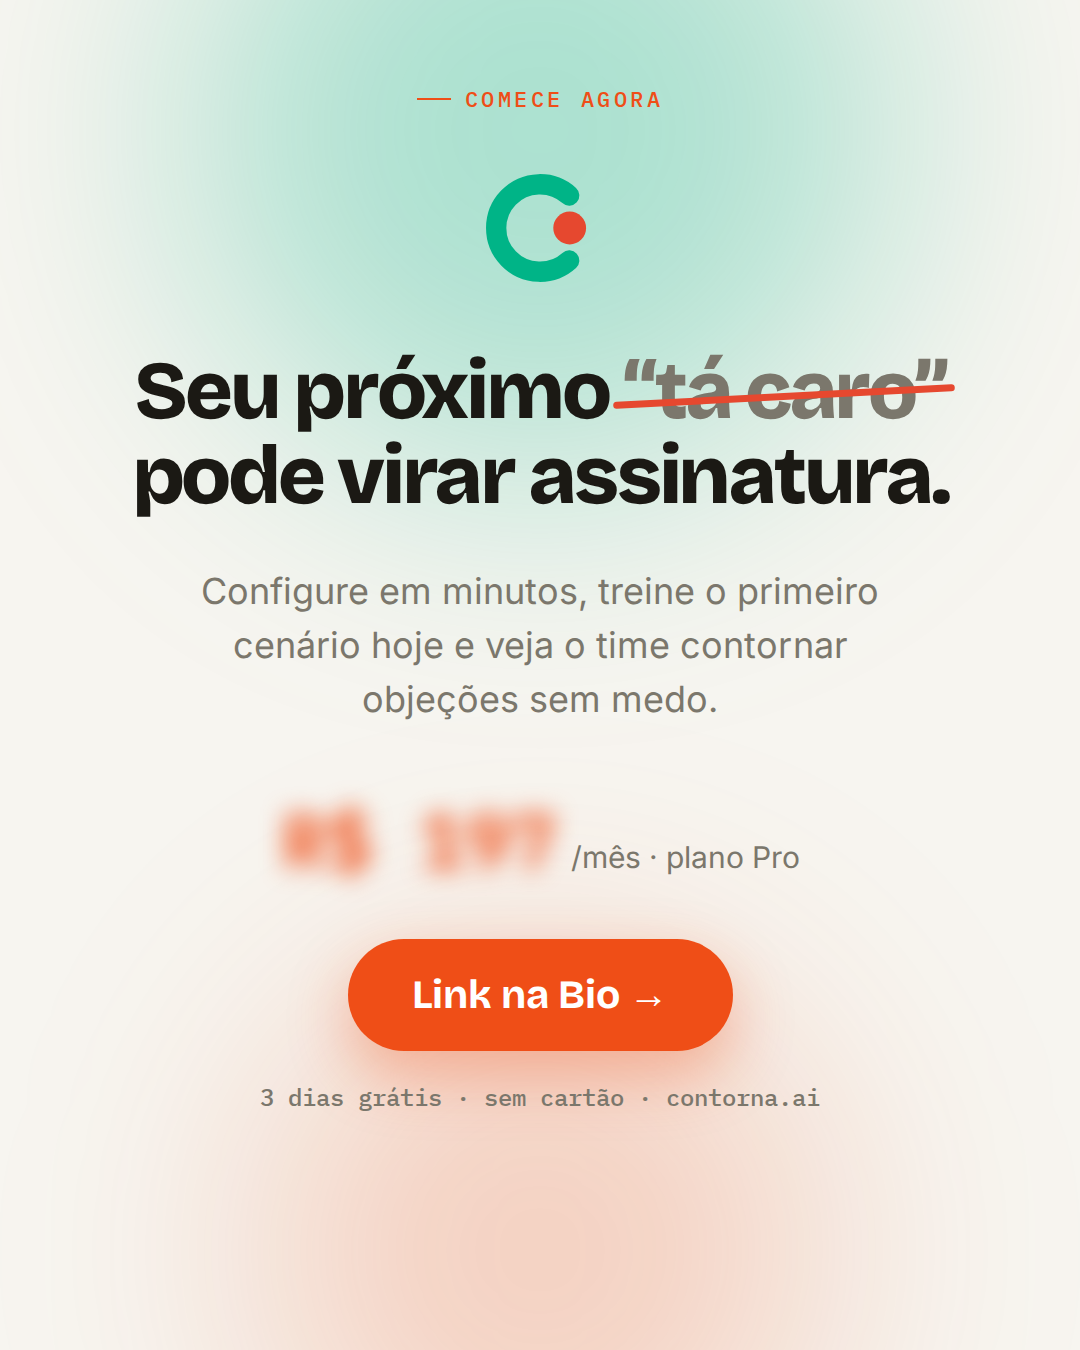
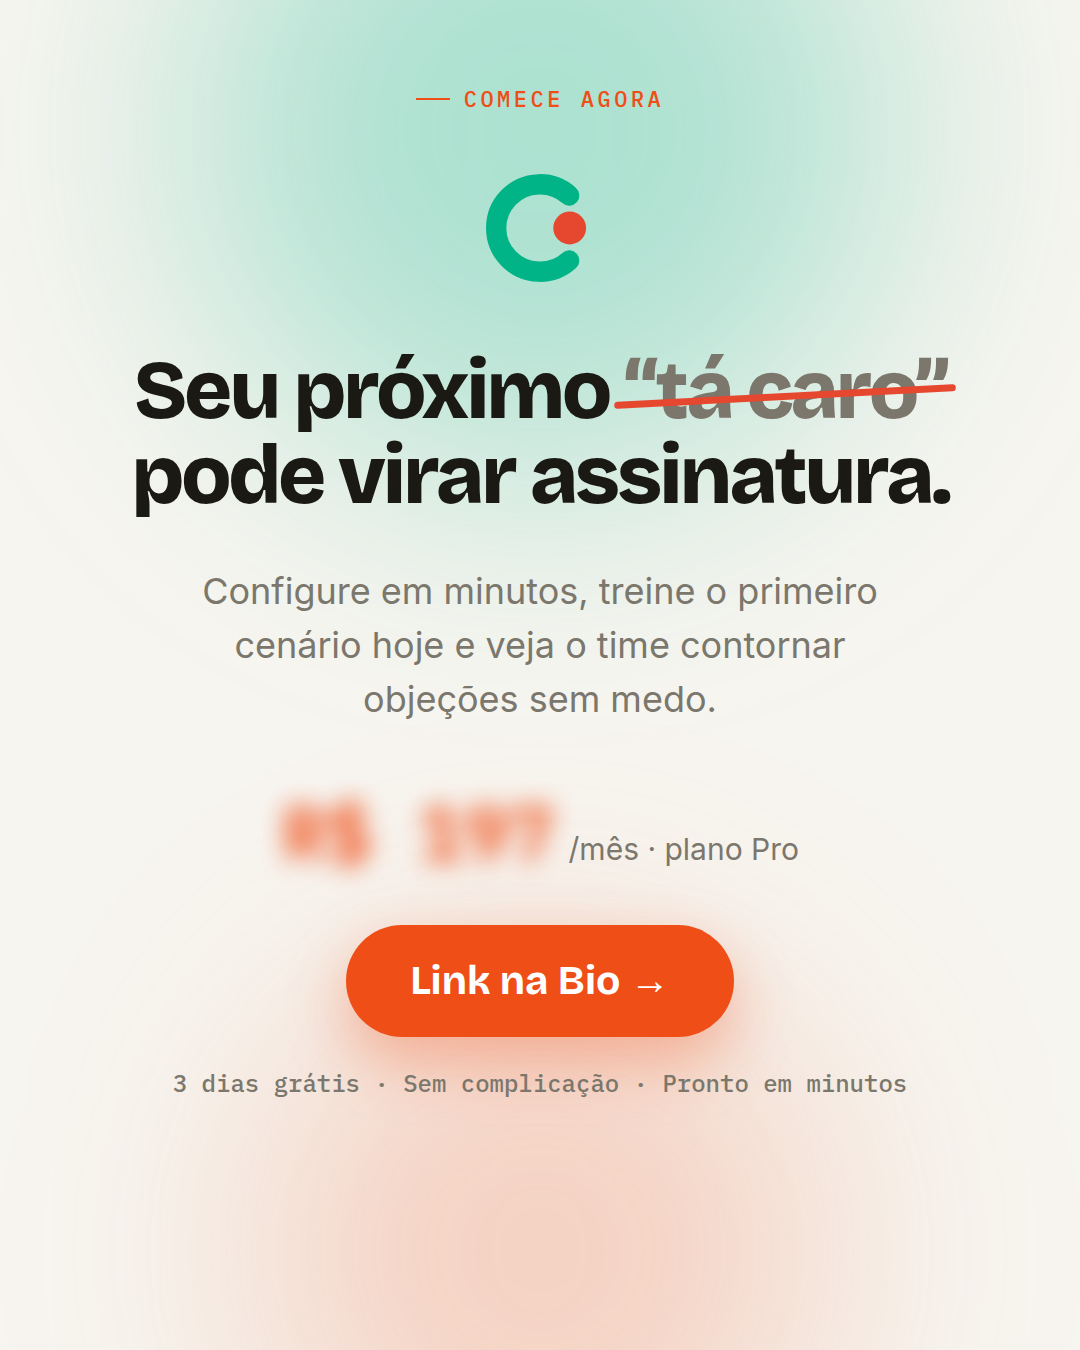
Substitui "sem cartão" em todas as peças do Instagram
- Chip do Post 2 / Story 2: "✓ Sem cartão" → "✓ Contorna.ai"
- Rodapé do Carrossel tela 6 (feed + story): "3 dias grátis · sem
  cartão" → "3 dias grátis · Contorna.ai"
- Rodapé do Post 5 / Story 5: como esse já terminava em "· contorna.ai"
  (troca direta duplicaria o texto), usei a frase fornecida pelo
  usuário: "3 dias grátis · Sem complicação · Pronto em minutos"
- plano.html não foi alterado (documento já estava desatualizado em
  relação às peças, fora do escopo desta rodada)
- Re-renderiza os 6 PNGs afetados

diff --git a/marketing/instagram/src/stories.html b/marketing/instagram/src/stories.html
@@ -266,7 +266,7 @@
     </div>
     <div class="chips">
       <span class="chip">✓ 3 dias grátis</span>
-      <span class="chip">✓ Sem cartão</span>
+      <span class="chip">✓ Contorna.ai</span>
       <span class="chip">✓ Pronto em minutos</span>
     </div>
     <div class="foot">
@@ -356,7 +356,7 @@
     <p class="sub">Configure em minutos, treine o primeiro cenário hoje e veja o time contornar objeções sem medo.</p>
     <div class="price"><span class="v">R$ 197</span><span class="p">/mês · plano Pro</span></div>
     <div class="btn">Link na Bio →</div>
-    <div class="fine">3 dias grátis · sem cartão · contorna.ai</div>
+    <div class="fine">3 dias grátis · Sem complicação · Pronto em minutos</div>
     <div class="foot">
       <div class="lock">
         <svg viewBox="0 0 96 96" fill="none"><path d="M66.7 27.2 A28 28 0 1 0 66.7 68.8" stroke="#00B487" stroke-width="13" stroke-linecap="round"/><circle cx="67" cy="48" r="10.5" fill="#E6482F"/></svg>
@@ -522,7 +522,7 @@
     <h1 class="display">Ler é fácil.<br>Responder na hora<br>é que trava.</h1>
     <p class="sub">No Contorna AI seu time treina essas quatro contra uma IA que insiste — e recebe a nota do que respondeu.</p>
     <div class="btn">Link na Bio →</div>
-    <div class="fine">3 dias grátis · sem cartão</div>
+    <div class="fine">3 dias grátis · Contorna.ai</div>
     <div class="foot">
       <div class="lock">
         <svg viewBox="0 0 96 96" fill="none"><path d="M66.7 27.2 A28 28 0 1 0 66.7 68.8" stroke="#00B487" stroke-width="13" stroke-linecap="round"/><circle cx="67" cy="48" r="10.5" fill="#E6482F"/></svg>

diff --git a/marketing/instagram/src/artes.html b/marketing/instagram/src/artes.html
@@ -296,7 +296,7 @@
     </div>
     <div class="chips">
       <span class="chip">✓ 3 dias grátis</span>
-      <span class="chip">✓ Sem cartão</span>
+      <span class="chip">✓ Contorna.ai</span>
       <span class="chip">✓ Pronto em minutos</span>
     </div>
     <div class="brand-footer">
@@ -386,7 +386,7 @@
     <p class="sub">Configure em minutos, treine o primeiro cenário hoje e veja o time contornar objeções sem medo.</p>
     <div class="price"><span class="v">R$ 197</span><span class="p">/mês · plano Pro</span></div>
     <div class="btn">Link na Bio →</div>
-    <div class="fine">3 dias grátis · sem cartão · contorna.ai</div>
+    <div class="fine">3 dias grátis · Sem complicação · Pronto em minutos</div>
   </div>
 </div>
 
@@ -582,7 +582,7 @@
     <h1 class="display">Ler é fácil.<br>Responder na hora<br>é que trava.</h1>
     <p class="sub">No Contorna AI seu time treina essas quatro contra uma IA que insiste — e recebe a nota do que respondeu.</p>
     <div class="btn">Link na Bio →</div>
-    <div class="fine">3 dias grátis · sem cartão</div>
+    <div class="fine">3 dias grátis · Contorna.ai</div>
     <div class="brand-footer">
       <div class="brand-lock">
         <svg width="52" height="52" viewBox="0 0 96 96" fill="none"><path d="M66.7 27.2 A28 28 0 1 0 66.7 68.8" stroke="#00B487" stroke-width="13" stroke-linecap="round"/><circle cx="67" cy="48" r="10.5" fill="#E6482F"/></svg>
